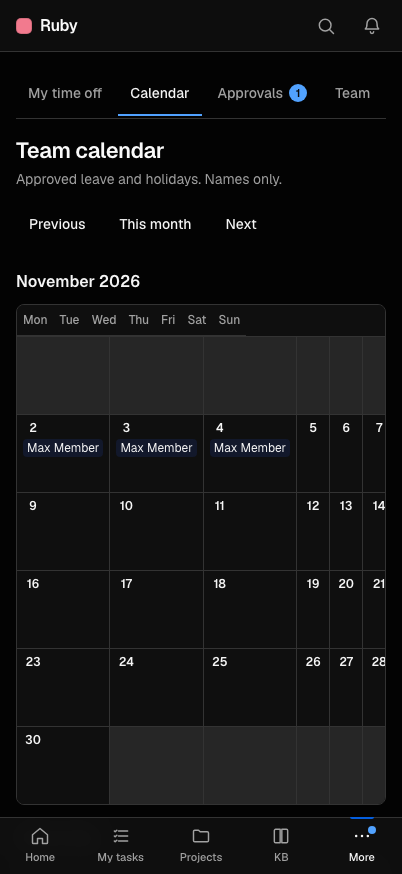
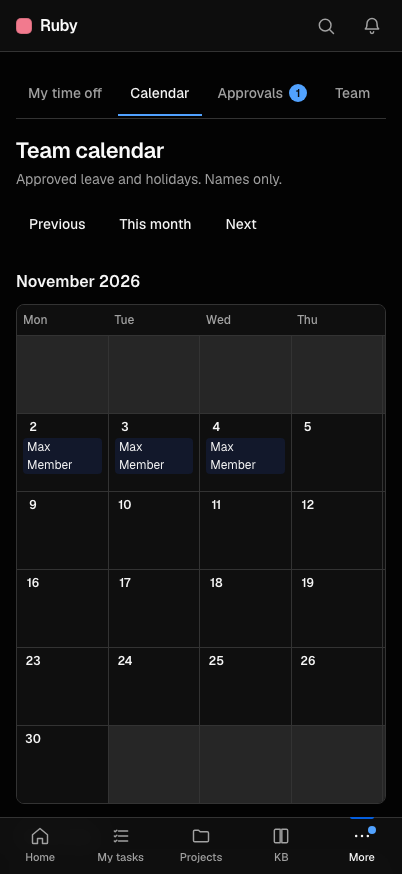
Ruby: calendar layout fix and machine-sized test runs
The team calendar's table no longer picks up Tailwind's grid utility, the KB scope list loses a stray
outline, and local test runs cap their workers and wait for a quiet machine.

diff --git a/scripts/machine-limits.ts b/scripts/machine-limits.ts
@@ -1,0 +1,72 @@
+/**
+ * Test runs sized to the machine they run on (owner request 2026-10-26: "adjust to the machine limit"). A developer
+ * machine is often shared with other work: unbounded parallel test workers plus a busy CPU turn timing-sensitive
+ * tests (races, throttles, CPU bounds) into false failures. Locally, Vitest and Playwright use a bounded number of
+ * workers, and `npm run test` / `npm run test:e2e` first wait until the machine's load drops below its core count.
+ * CI (`CI` set) keeps each tool's own defaults and never waits.
+ *
+ * Overrides: RUBY_TEST_WORKERS (Vitest), RUBY_E2E_WORKERS (Playwright), RUBY_MAX_LOAD (the load to wait for),
+ * RUBY_LOAD_WAIT_S (how long to wait at most; then the run starts anyway with a warning).
+ */
+import { availableParallelism, loadavg } from 'node:os';
+
+/** The variables read here; `process.env` fits it. */
+type Env = Record<string, string | undefined>;
+
+const positive = (raw: string | undefined): number | null => {
+	const n = Number(raw);
+	return Number.isInteger(n) && n > 0 ? n : null;
+};
+
+const cores = () => availableParallelism();
+
+/** Vitest workers: RUBY_TEST_WORKERS, else 40% of the cores (at least 1, at most 4). */
+export function testWorkers(env: Env = process.env): number {
+	return positive(env.RUBY_TEST_WORKERS) ?? Math.min(4, Math.max(1, Math.floor(cores() * 0.4)));
+}
+
+/** Playwright workers: RUBY_E2E_WORKERS, else 2 (each worker drives a browser against one wrangler dev server). */
+export function e2eWorkers(env: Env = process.env): number {
+	return positive(env.RUBY_E2E_WORKERS) ?? 2;
+}
+
+/** The 1-minute load average a local run waits for: RUBY_MAX_LOAD, else the core count. */
+export function maxLoad(env: Env = process.env): number {
+	return positive(env.RUBY_MAX_LOAD) ?? cores();
+}
+
+const sleep = (ms: number) => new Promise((resolve) => setTimeout(resolve, ms));
+
+/**
+ * Waits until the 1-minute load average is below maxLoad(), checking every 15 s, for at most RUBY_LOAD_WAIT_S
+ * (default 600 s); returns whether the machine got quiet in time. Returns at once in CI.
+ */
+export async function waitForQuiet(
+	env: Env = process.env,
+	read: () => number = () => loadavg()[0] ?? 0,
+	pause: (ms: number) => Promise<unknown> = sleep
+): Promise<boolean> {
+	if (env.CI) return true;
+	const limit = maxLoad(env);
+	const deadline = (positive(env.RUBY_LOAD_WAIT_S) ?? 600) * 1000;
+	let waited = 0;
+	for (;;) {
+		const load = read();
+		if (load < limit) return true;
+		if (waited >= deadline) {
+			console.warn(
+				`machine-limits: load ${load.toFixed(1)} still ≥ ${limit} after ${waited / 1000} s; starting anyway`
+			);
+			return false;
+		}
+		if (waited === 0)
+			console.log(
+				`machine-limits: load ${load.toFixed(1)} ≥ ${limit}; waiting for a quieter machine`
+			);
+		await pause(15_000);
+		waited += 15_000;
+	}
+}
+
+// `node scripts/machine-limits.ts`: the wait step of the npm test scripts.
+if (import.meta.url === `file://${process.argv[1]}`) await waitForQuiet();

diff --git a/test/tailwind-class-clash.test.ts b/test/tailwind-class-clash.test.ts
@@ -1,0 +1,59 @@
+import { readdirSync, readFileSync, statSync } from 'node:fs';
+import { join } from 'node:path';
+import { describe, expect, it } from 'vitest';
+
+/**
+ * Tailwind v4 generates a utility for every class name it finds in the source, so a component's own class that happens
+ * to be a utility name gets the utility's rule too: `<table class="grid">` became `display: grid` and broke the team
+ * calendar; `class="outline"` drew a solid outline. These names are reserved for Tailwind and never used as a
+ * component's own class; `grid` and `flex` are allowed on block containers, never on table parts.
+ */
+const RESERVED = [
+	'outline',
+	'table',
+	'ring',
+	'shadow',
+	'border',
+	'rounded',
+	'truncate',
+	'transform',
+	'filter',
+	'container',
+	'collapse',
+	'invisible',
+	'visible'
+];
+const TABLE_PARTS = /<(table|thead|tbody|tfoot|tr|td|th)\b[^>]*\bclass="([^"]*)"/g;
+
+function svelteFiles(dir: string): string[] {
+	return readdirSync(dir).flatMap((name) => {
+		const path = join(dir, name);
+		if (statSync(path).isDirectory()) return svelteFiles(path);
+		return path.endsWith('.svelte') ? [path] : [];
+	});
+}
+
+describe('component classes never collide with Tailwind utilities', () => {
+	const files = svelteFiles('src');
+
+	it('uses no reserved utility name as a class', () => {
+		const hits: string[] = [];
+		for (const file of files) {
+			const source = readFileSync(file, 'utf8');
+			for (const match of source.matchAll(/\bclass="([^"]*)"/g))
+				for (const token of (match[1] ?? '').split(/\s+/))
+					if (RESERVED.includes(token)) hits.push(`${file}: ${token}`);
+		}
+		expect(hits).toEqual([]);
+	});
+
+	it('never puts a display utility (grid, flex) on a table part', () => {
+		const hits: string[] = [];
+		for (const file of files)
+			for (const match of readFileSync(file, 'utf8').matchAll(TABLE_PARTS))
+				for (const token of (match[2] ?? '').split(/\s+/))
+					if (token === 'grid' || token === 'flex' || token === 'block')
+						hits.push(`${file}: <${match[1]} class="${token}">`);
+		expect(hits).toEqual([]);
+	});
+});

diff --git a/scripts/machine-limits.test.ts b/scripts/machine-limits.test.ts
@@ -1,0 +1,39 @@
+import { availableParallelism } from 'node:os';
+import { describe, expect, it, vi } from 'vitest';
+import { e2eWorkers, maxLoad, testWorkers, waitForQuiet } from './machine-limits.ts';
+
+describe('machine limits', () => {
+	it('defaults to a bounded worker count and honours the overrides', () => {
+		const n = testWorkers({});
+		expect(n).toBeGreaterThanOrEqual(1);
+		expect(n).toBeLessThanOrEqual(4);
+		expect(testWorkers({ RUBY_TEST_WORKERS: '7' })).toBe(7);
+		expect(testWorkers({ RUBY_TEST_WORKERS: 'many' })).toBe(n);
+		expect(e2eWorkers({})).toBe(2);
+		expect(e2eWorkers({ RUBY_E2E_WORKERS: '1' })).toBe(1);
+		expect(maxLoad({})).toBe(availableParallelism());
+		expect(maxLoad({ RUBY_MAX_LOAD: '16' })).toBe(16);
+	});
+
+	it('starts at once in CI and when the machine is quiet', async () => {
+		const pause = vi.fn(async () => {});
+		expect(await waitForQuiet({ CI: 'true' }, () => 999, pause)).toBe(true);
+		expect(await waitForQuiet({ RUBY_MAX_LOAD: '10' }, () => 3, pause)).toBe(true);
+		expect(pause).not.toHaveBeenCalled();
+	});
+
+	it('waits while the load is high, then starts anyway after the limit', async () => {
+		vi.spyOn(console, 'log').mockImplementation(() => {});
+		const warn = vi.spyOn(console, 'warn').mockImplementation(() => {});
+		const loads = [20, 15, 4];
+		const pause = vi.fn(async () => {});
+		expect(await waitForQuiet({ RUBY_MAX_LOAD: '10' }, () => loads.shift() ?? 0, pause)).toBe(true);
+		expect(pause).toHaveBeenCalledTimes(2);
+		const busy = vi.fn(async () => {});
+		const env = { RUBY_MAX_LOAD: '10', RUBY_LOAD_WAIT_S: '30' };
+		expect(await waitForQuiet(env, () => 50, busy)).toBe(false);
+		expect(busy).toHaveBeenCalledTimes(2);
+		expect(warn).toHaveBeenCalledOnce();
+		vi.restoreAllMocks();
+	});
+});

diff --git a/vitest.config.ts b/vitest.config.ts
@@ -1,6 +1,7 @@
 import { fileURLToPath } from 'node:url';
 import { svelte } from '@sveltejs/vite-plugin-svelte';
 import { defineConfig } from 'vitest/config';
+import { testWorkers } from './scripts/machine-limits.ts';
 
 export default defineConfig({
 	// Compiles .svelte files for server-render tests (svelte/server); there is no browser environment.
@@ -12,6 +13,9 @@ export default defineConfig({
 	test: {
 		include: ['src/**/*.test.ts', 'scripts/**/*.test.ts', 'test/**/*.test.ts'],
 		environment: 'node',
+		// Bounded locally so a shared machine does not turn timing-sensitive tests into false failures
+		// (scripts/machine-limits.ts); CI keeps Vitest's default.
+		...(process.env.CI ? {} : { maxWorkers: testWorkers() }),
 		testTimeout: 30_000,
 		// openLocalD1 (workerd start + every migration) in beforeAll can pass the 10 s default under parallel load.
 		hookTimeout: 60_000

diff --git a/playwright.config.ts b/playwright.config.ts
@@ -1,5 +1,6 @@
 import { randomBytes } from 'node:crypto';
 import { defineConfig, devices } from '@playwright/test';
+import { e2eWorkers } from './scripts/machine-limits.ts';
 import { STORAGE_STATE } from './e2e/helpers';
 
 /**
@@ -32,6 +33,8 @@ export default defineConfig({
 	testDir: 'e2e',
 	outputDir: 'test-results',
 	fullyParallel: true,
+	// Bounded locally (scripts/machine-limits.ts); CI keeps Playwright's default.
+	workers: process.env.CI ? undefined : e2eWorkers(),
 	retries: 0,
 	reporter: 'list',
 	use: {

diff --git a/src/routes/(app)/kb/ScopeTreeView.svelte b/src/routes/(app)/kb/ScopeTreeView.svelte
@@ -9,7 +9,7 @@
 	let { tree, label }: { tree: ScopeTree; label: string } = $props();
 </script>
 
-<section class="outline" aria-label={label}>
+<section class="scope-outline" aria-label={label}>
 	<PageTree nodes={tree.nodes} openIds={tree.openIds} {label} />
 	{#if tree.truncated}
 		<p class="note">
@@ -20,7 +20,7 @@
 </section>
 
 <style>
-	.outline {
+	.scope-outline {
 		padding: 10px;
 		border: 1px solid var(--border);
 		border-radius: var(--radius-l);

diff --git a/src/routes/(app)/time-off/calendar/+page.svelte b/src/routes/(app)/time-off/calendar/+page.svelte
@@ -37,7 +37,7 @@
 />
 
 <div class="grid-box" role="region" aria-label="Leave calendar" tabindex="-1">
-	<table class="grid">
+	<table class="cal-grid">
 		<thead>
 			<tr>
 				{#each WEEKDAY_NAMES as name (name)}<th scope="col" abbr={name}>{name.slice(0, 3)}</th
@@ -103,7 +103,7 @@
 		border-radius: var(--radius-l);
 		background: var(--surface);
 	}
-	.grid {
+	.cal-grid {
 		width: 100%;
 		min-width: 640px;
 		border-collapse: collapse;

diff --git a/test/security/rb02-d1.test.ts b/test/security/rb02-d1.test.ts
@@ -450,7 +450,7 @@ describe('search hardening against real FTS5', () => {
 		} finally {
 			vi.useRealTimers();
 		}
-	});
+	}, 120_000); // 300+ sequential D1 searches: slow when the machine is busy.
 });
 
 describe('body limits and form handling', () => {
